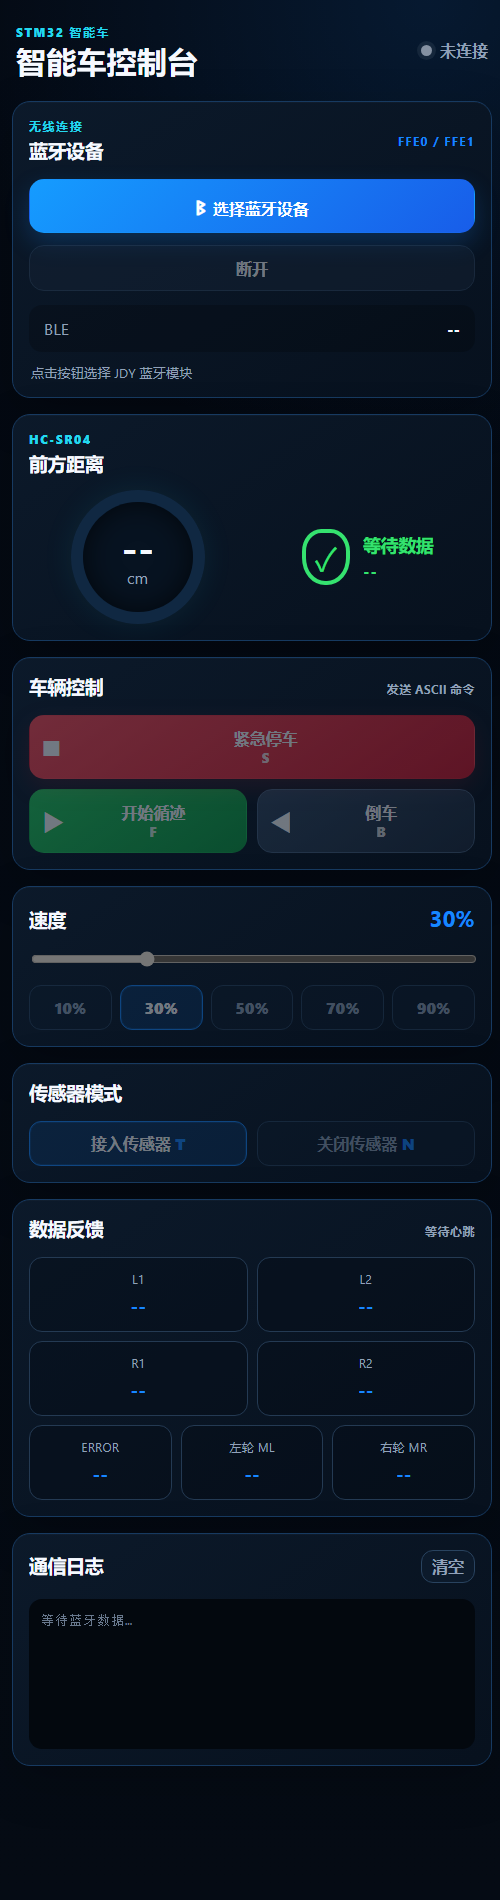
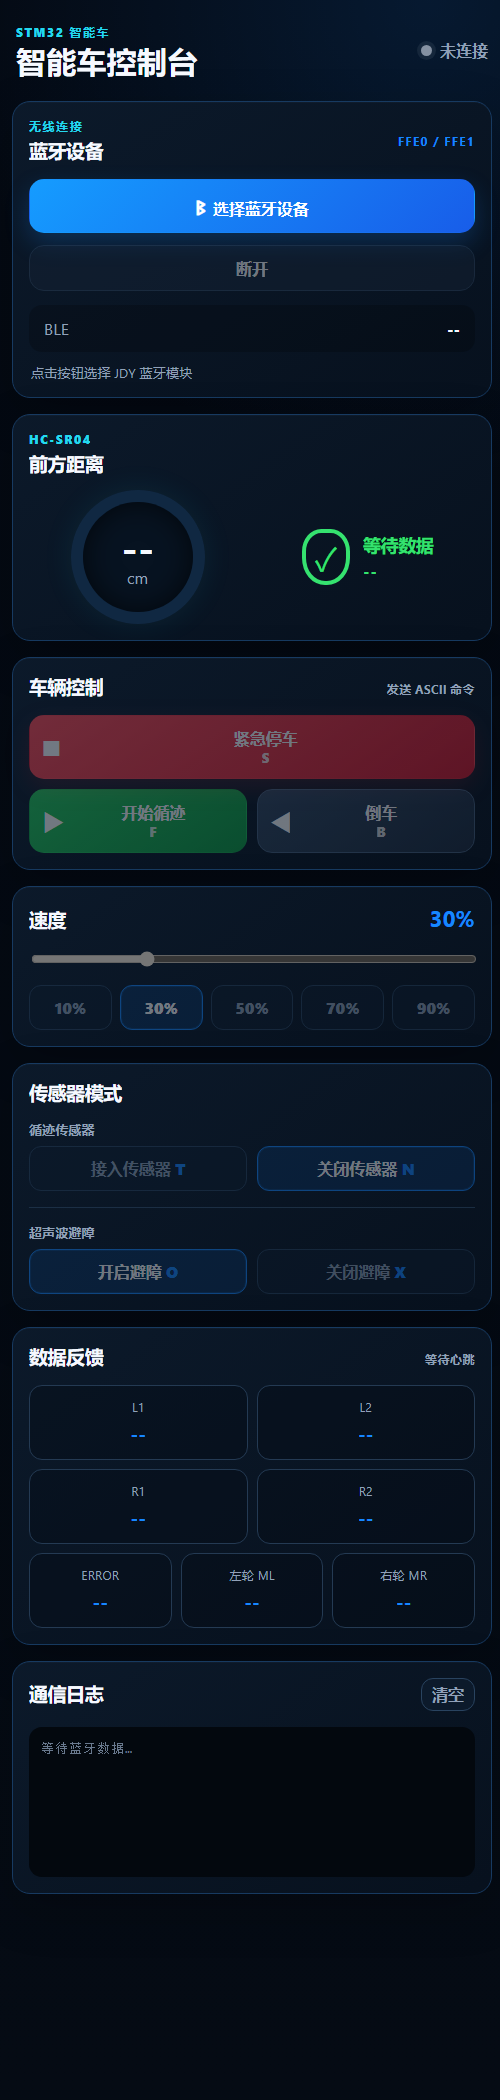
Add files via upload

diff --git a/app.js b/app.js
@@ -13,6 +13,7 @@ const ui = {
   obstacleState: $("obstacleState"), obstacleChinese: $("obstacleChinese"), obstacleValue: $("obstacleValue"),
   speedSlider: $("speedSlider"), speedReadout: $("speedReadout"), speedPresets: $("speedPresets"),
   sensorOnButton: $("sensorOnButton"), sensorOffButton: $("sensorOffButton"),
+  obstacleOnButton: $("obstacleOnButton"), obstacleOffButton: $("obstacleOffButton"),
   l1Value: $("l1Value"), l2Value: $("l2Value"), r1Value: $("r1Value"), r2Value: $("r2Value"),
   errorValue: $("errorValue"), mlValue: $("mlValue"), mrValue: $("mrValue"),
   aliveIndicator: $("aliveIndicator"), logWindow: $("logWindow"), clearLogButton: $("clearLogButton")
@@ -166,8 +167,12 @@ function processLine(line) {
 
   const distanceMatch = line.match(/DIST\s*=\s*(OUT|\d+)\s*(?:CM)?/i);
   const obstacleMatch = line.match(/(?:OBSTACLE\s*=\s*|OBSTACLE\s+)(CLEAR|SLOW|STOP)/i);
+  const avoidanceMatch = line.match(/(?:AVOID\s*=\s*|OBSTACLE\s+)(ON|OFF)\b/i);
+  const sensorModeMatch = line.match(/SENSOR\s+(ON|OFF)\b/i);
   if (distanceMatch) updateDistance(distanceMatch[1]);
   if (obstacleMatch) updateObstacle(obstacleMatch[1].toUpperCase());
+  if (avoidanceMatch) selectMode(ui.obstacleOnButton, ui.obstacleOffButton, avoidanceMatch[1].toUpperCase() === "ON");
+  if (sensorModeMatch) selectMode(ui.sensorOnButton, ui.sensorOffButton, sensorModeMatch[1].toUpperCase() === "ON");
 
   if (/CAR\s+ALIVE/i.test(line)) markAlive();
 }
@@ -212,6 +217,11 @@ function selectSpeed(speed) {
   });
 }
 
+function selectMode(onButton, offButton, enabled) {
+  onButton.classList.toggle("selected", enabled);
+  offButton.classList.toggle("selected", !enabled);
+}
+
 ui.connectButton.addEventListener("click", connectBluetooth);
 ui.disconnectButton.addEventListener("click", disconnectBluetooth);
 
@@ -220,8 +230,10 @@ document.querySelectorAll(".control-button").forEach((button) => {
     const sent = await sendCommand(button.dataset.command);
     if (!sent) return;
     if (button === ui.sensorOnButton || button === ui.sensorOffButton) {
-      ui.sensorOnButton.classList.toggle("selected", button === ui.sensorOnButton);
-      ui.sensorOffButton.classList.toggle("selected", button === ui.sensorOffButton);
+      selectMode(ui.sensorOnButton, ui.sensorOffButton, button === ui.sensorOnButton);
+    }
+    if (button === ui.obstacleOnButton || button === ui.obstacleOffButton) {
+      selectMode(ui.obstacleOnButton, ui.obstacleOffButton, button === ui.obstacleOnButton);
     }
   });
 });
@@ -241,3 +253,5 @@ ui.clearLogButton.addEventListener("click", () => {
 
 setConnected(false);
 selectSpeed(3);
+selectMode(ui.sensorOnButton, ui.sensorOffButton, false);
+selectMode(ui.obstacleOnButton, ui.obstacleOffButton, true);

diff --git a/index.html b/index.html
@@ -94,9 +94,19 @@
       <div class="section-heading compact">
         <h2 id="sensorModeTitle">传感器模式</h2>
       </div>
-      <div class="mode-switch">
-        <button class="mode-button selected control-button" id="sensorOnButton" data-command="T" type="button" disabled>接入传感器 <b>T</b></button>
-        <button class="mode-button control-button" id="sensorOffButton" data-command="N" type="button" disabled>关闭传感器 <b>N</b></button>
+      <div class="mode-row">
+        <p class="mode-label">循迹传感器</p>
+        <div class="mode-switch">
+          <button class="mode-button control-button" id="sensorOnButton" data-command="T" type="button" disabled>接入传感器 <b>T</b></button>
+          <button class="mode-button selected control-button" id="sensorOffButton" data-command="N" type="button" disabled>关闭传感器 <b>N</b></button>
+        </div>
+      </div>
+      <div class="mode-row">
+        <p class="mode-label">超声波避障</p>
+        <div class="mode-switch">
+          <button class="mode-button selected control-button" id="obstacleOnButton" data-command="O" type="button" disabled>开启避障 <b>O</b></button>
+          <button class="mode-button control-button" id="obstacleOffButton" data-command="X" type="button" disabled>关闭避障 <b>X</b></button>
+        </div>
       </div>
     </section>
 

diff --git a/styles.css b/styles.css
@@ -144,6 +144,8 @@ h2 { margin: 0; font-size: 1.16rem; }
 }
 .speed-presets button.selected, .mode-button.selected { color: white; border-color: var(--blue); background: rgba(22,135,255,.23); box-shadow: inset 0 0 0 1px rgba(22,135,255,.22); }
 .mode-switch { display: grid; grid-template-columns: 1fr 1fr; gap: 10px; }
+.mode-row + .mode-row { margin-top: 16px; padding-top: 16px; border-top: 1px solid rgba(41,67,95,.55); }
+.mode-label { margin: 0 0 8px; color: var(--muted); font-size: .82rem; font-weight: 750; }
 .mode-button { padding: 0 10px; }
 .mode-button b { color: var(--blue); }
 

diff --git a/README.md b/README.md
@@ -1,6 +1,6 @@
 # 智能车蓝牙网页控制器
 
-这个网页通过 JDY 蓝牙模块的 `FFE0/FFE1` 服务控制 STM32F103C8T6 智能车，可发送循迹、倒车、停车、传感器开关和调速命令，并显示距离与循迹数据。
+这个网页通过 JDY 蓝牙模块的 `FFE0/FFE1` 服务控制 STM32F103C8T6 智能车，可发送循迹、倒车、停车、传感器开关、避障开关和调速命令，并显示距离与循迹数据。
 
 ## 一、电脑上预览
 
@@ -54,7 +54,11 @@
 | 紧急停车 | `S` |
 | 接入传感器 | `T` |
 | 关闭传感器 | `N` |
+| 开启自动避障 | `O` |
+| 关闭自动避障 | `X` |
 | 10%～90%速度 | `1`～`9` |
+
+小车开机默认开启自动避障。发送 `X` 后，HC-SR04 仍继续测距，OLED 和网页仍显示距离，但距离不会再让小车自动减速或停车。
 
 ## 五、常见问题
 
